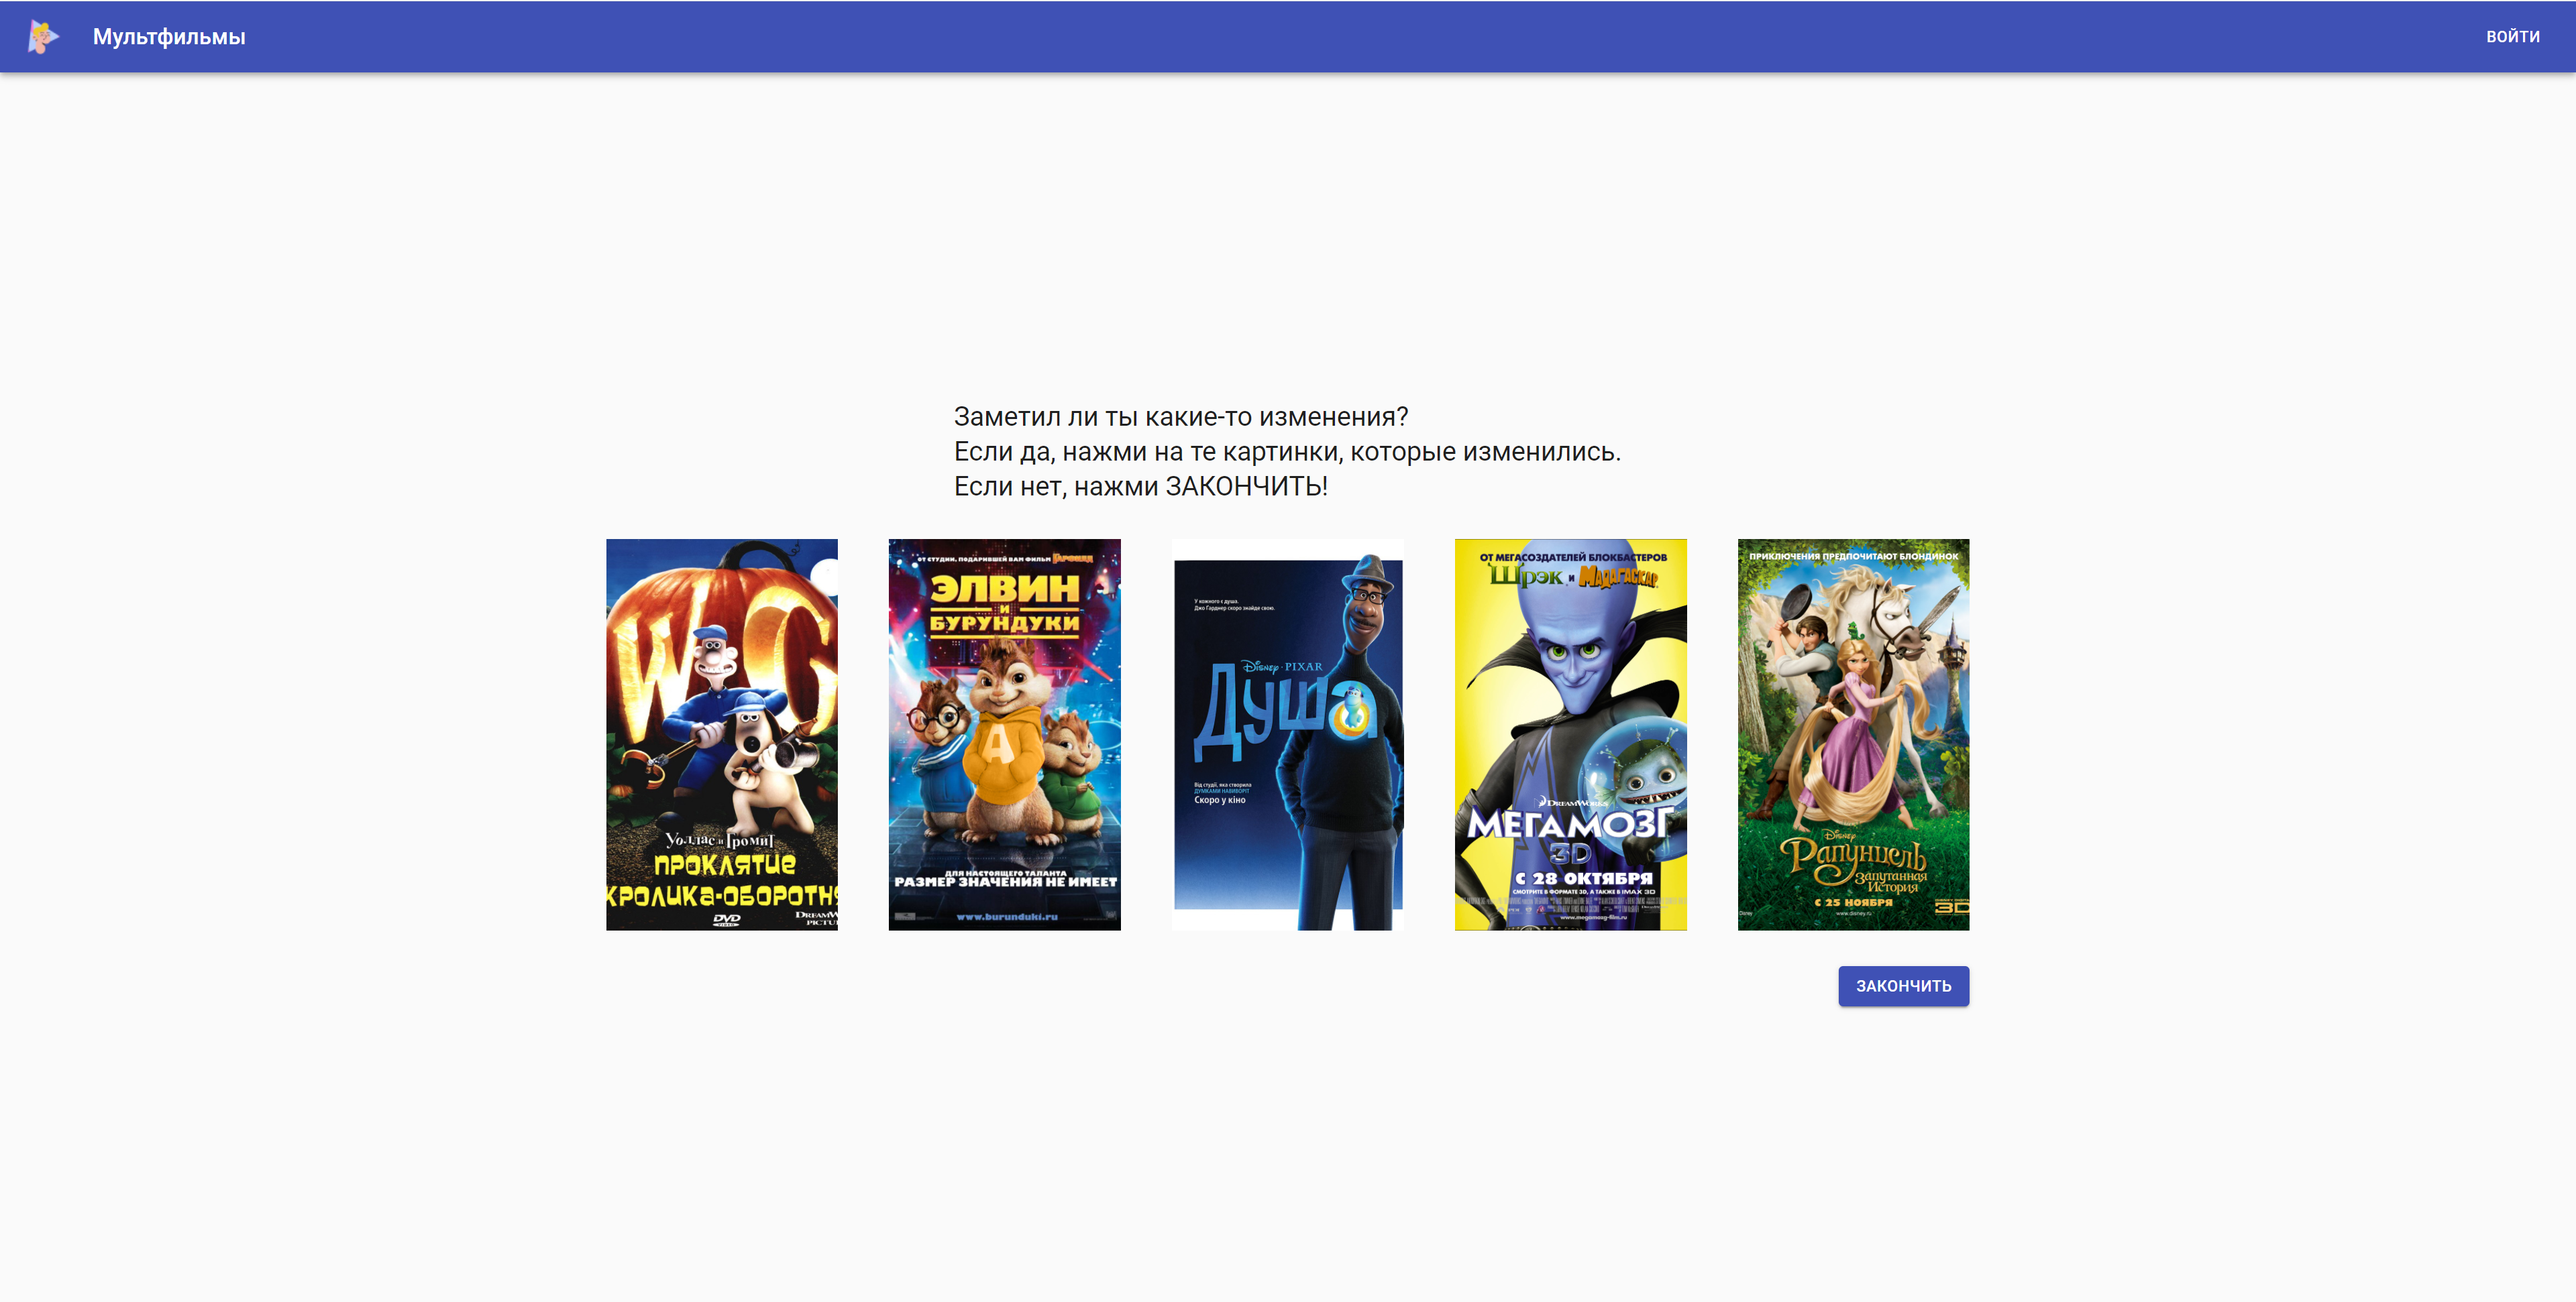
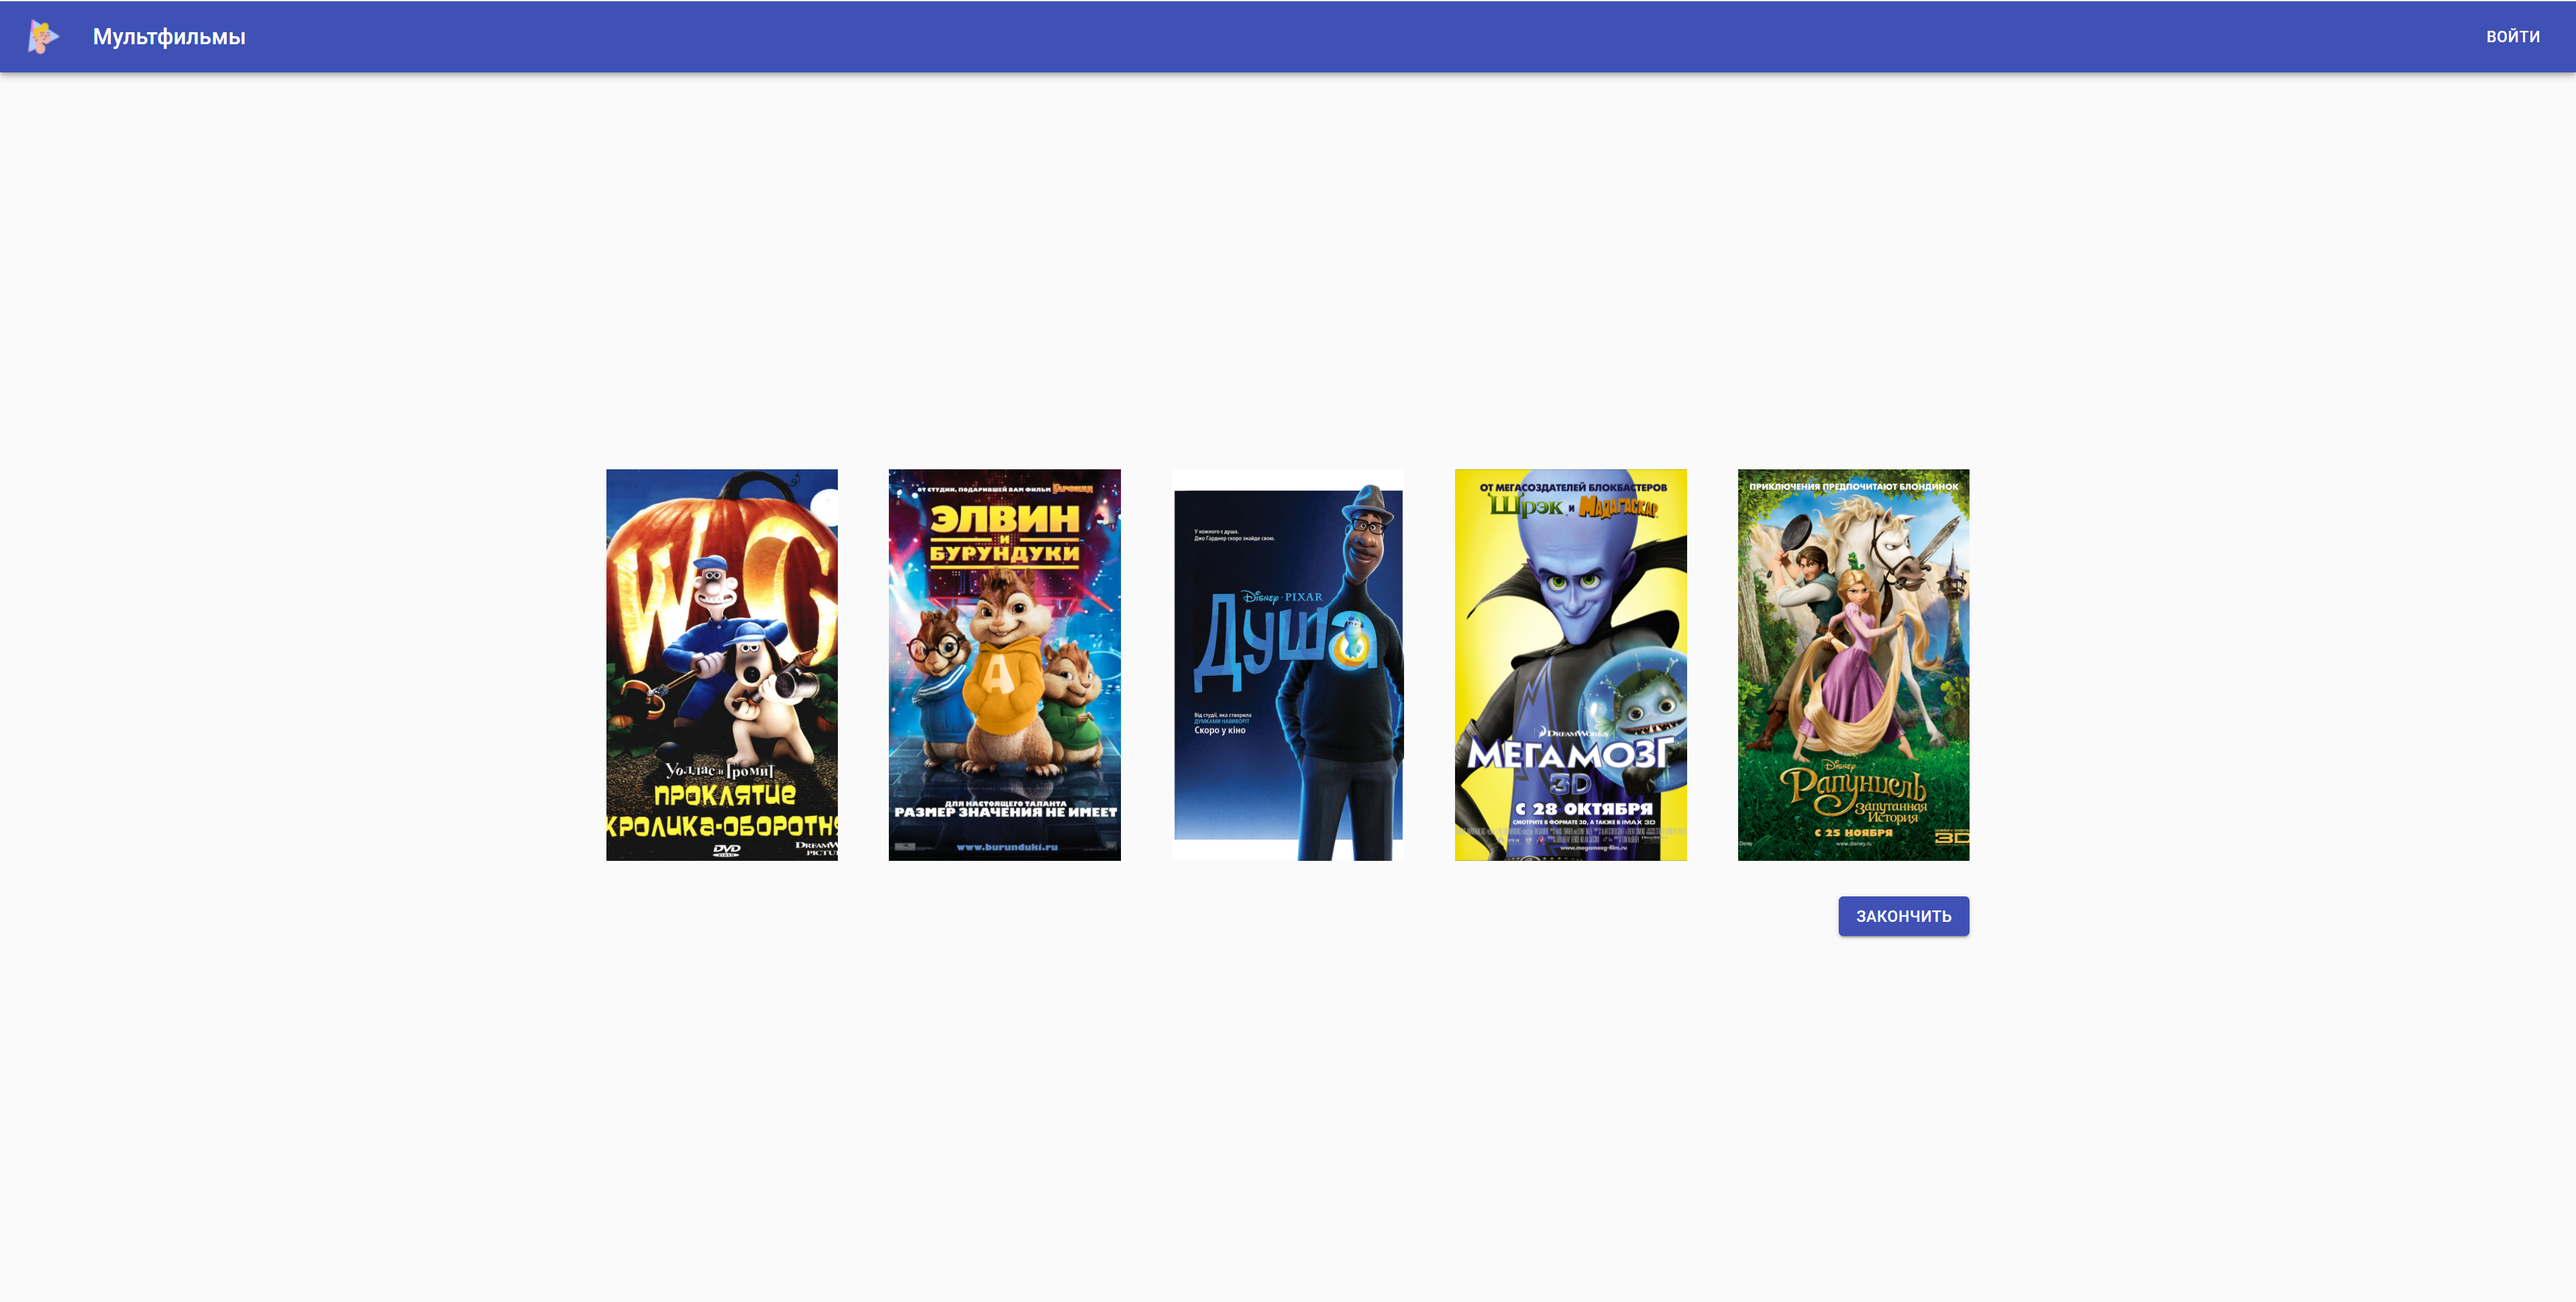
Добавляет скриншоты со статикой

Changed region(s): [[0.2188, 0.309, 0.7812, 0.7724]]

diff --git a/src/routes/StaticPage.jsx b/src/routes/StaticPage.jsx
@@ -1,5 +1,39 @@
-import React from 'react';
+import React, { useEffect, useState } from 'react';
+import staticImg1 from '../assets/imgs/static1.png';
+import staticImg2 from '../assets/imgs/static2.png';
+import Dialog from '@material-ui/core/Dialog';
+import { Transition } from '../components/Transition';
+import Typography from '@material-ui/core/Typography';
 
 export function StaticPage() {
-    return 'hello, static';
+    const [next, setNext] = useState(false);
+    const [open, setOpen] = useState(false);
+
+    useEffect(() => {
+        setTimeout(() => {
+            setNext(true);
+            setOpen(true);
+            setTimeout(() => {
+                setOpen(false);
+            }, 500);
+        }, 5000);
+    }, []);
+
+    return (
+        <div>
+            {!next
+                ? <img width={1280} src={staticImg1} alt="static1" />
+                : (
+                    <>
+                        <Typography>
+                            Заметили ли вы какие - нибудь изменения?
+                        </Typography>
+                        <img width={1280} src={staticImg2} alt="static2" />
+                    </>
+                )
+            }
+
+            <Dialog fullScreen open={open} TransitionComponent={Transition} />
+        </div>
+    );
 }

diff --git a/src/routes/CartoonsPage.jsx b/src/routes/CartoonsPage.jsx
@@ -6,11 +6,11 @@ import makeStyles from '@material-ui/styles/makeStyles';
 import Button from '@material-ui/core/Button';
 import { useHistory, useParams } from 'react-router-dom';
 import Dialog from '@material-ui/core/Dialog';
-import Slide from '@material-ui/core/Slide';
 import Typography from '@material-ui/core/Typography';
 import uniqid from 'uniqid';
 import { DateTime, Interval } from 'luxon';
 import checkSrc from '../assets/imgs/check.png';
+import { Transition } from '../components/Transition';
 
 const useStyles = makeStyles({
     root: {
@@ -40,10 +40,6 @@ const useStyles = makeStyles({
         position: 'absolute',
         top: 0
     }
-});
-
-const Transition = React.forwardRef(function Transition(props, ref) {
-    return <Slide direction="up" ref={ref} {...props} />;
 });
 
 export const CartoonsPage = () => {

diff --git a/src/components/Transition.jsx b/src/components/Transition.jsx
@@ -1,0 +1,6 @@
+import React from 'react';
+import Slide from '@material-ui/core/Slide';
+
+export const Transition = React.forwardRef(function Transition(props, ref) {
+    return <Slide direction="up" ref={ref} {...props} />;
+});
